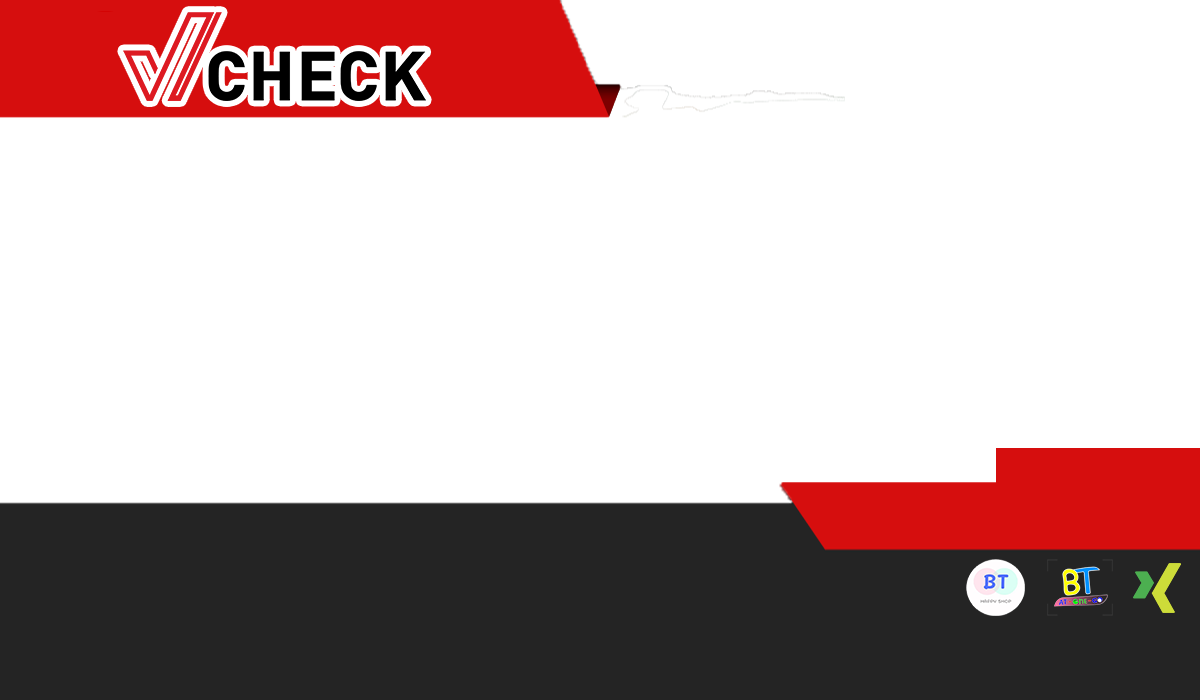
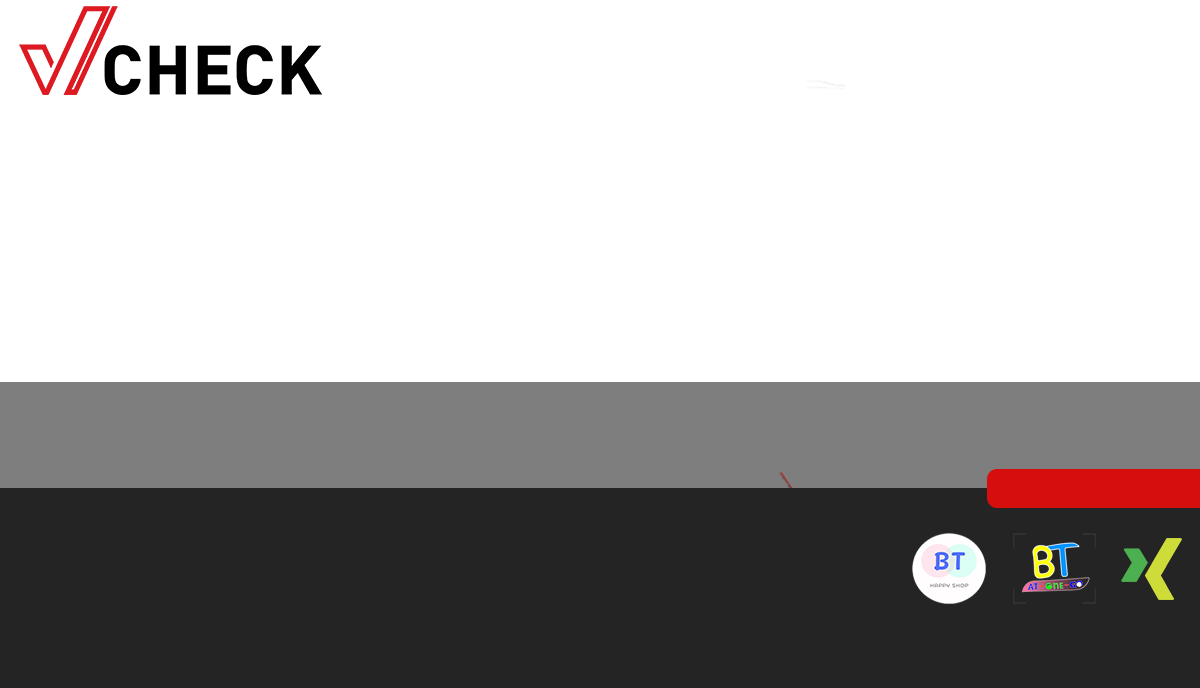
update

Changed region(s): [[0.0, 0.5494, 1.0, 0.8852], [0.0, 0.0, 0.5242, 0.1831]]

diff --git a/app/Http/Controllers/NewsController.php b/app/Http/Controllers/NewsController.php
@@ -93,30 +93,30 @@ class NewsController extends Controller
             $image_facebook->insert($bg_facebook)->save('img/facebook/'.$news_facebook.'.png');
 
             // หัวข้อข่าว
-            $image_facebook->text($requestData['title'], 30, 565, function($font) {
+            $image_facebook->text($requestData['title'], 30, 460, function($font) {
                 $font->file(public_path('fonts/Prompt/Prompt-Black.ttf'));
                 $font->size(50);
                 $font->color('#FFFFFF');
             });
 
             // สถานที่
-            $image_facebook->text($requestData['location'], 30, 610, function($font) {
+            $image_facebook->text($requestData['location'], 30, 555, function($font) {
                 $font->file(public_path('fonts/Prompt/Prompt-Black.ttf'));
-                $font->size(20);
+                $font->size(35);
                 $font->color('#FFFFFF');
             });
 
             $date_now = date("d-m-Y");
 
             // วันที่เพิ่มข่าว
-            $image_facebook->text($date_now, 1025, 480, function($font) {
+            $image_facebook->text($date_now, 1025, 500, function($font) {
                 $font->file(public_path('fonts/Prompt/Prompt-Italic.ttf'));
                 $font->size(26);
                 $font->color('#FFFFFF');
             });
 
             // reporter
-            $image_facebook->text('REPORTER : '.$requestData['name'], 850, 525, function($font) {
+            $image_facebook->text('REPORTER : '.$requestData['name'], 30, 610, function($font) {
                 $font->file(public_path('fonts/Prompt/Prompt-Italic.ttf'));
                 $font->size(22);
                 $font->color('#FFFFFF');
